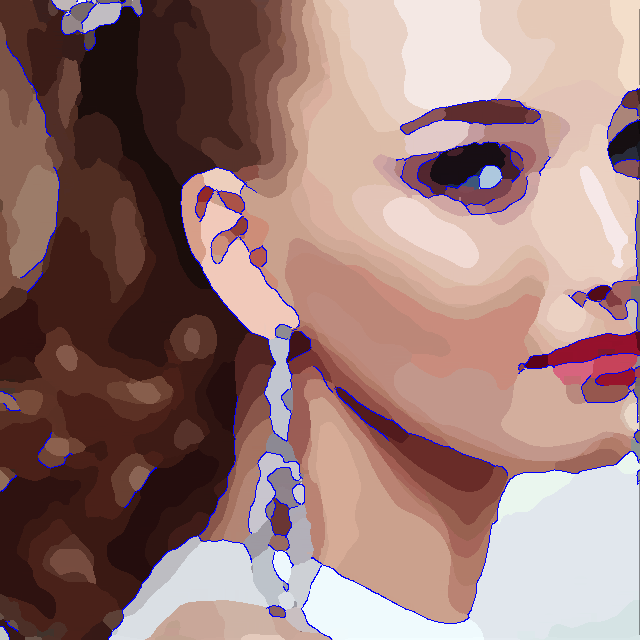
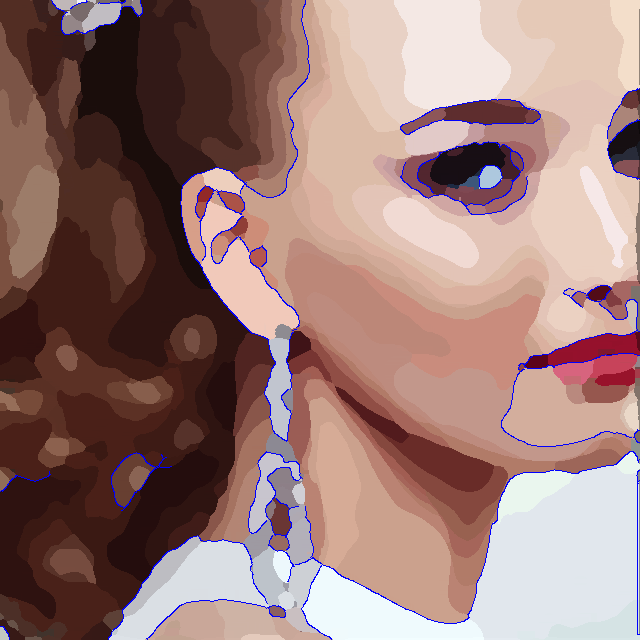
testin

Changed region(s): [[0.9688, 0.5938, 1.0, 0.625], [0.5312, 0.625, 0.5625, 0.6562]]

diff --git a/a.cpp b/a.cpp
@@ -1,0 +1,91 @@
+#include "opencv2/imgproc/imgproc.hpp"
+#include "opencv2/highgui/highgui.hpp"
+ 
+#include <iostream>
+ 
+using namespace cv;
+using namespace std;
+ 
+Vec3b RandomColor(int value);  //生成随机颜色函数
+ 
+int main( int argc, char* argv[] )
+{
+	Mat image=imread(argv[1]);    //载入RGB彩色图像
+	imshow("Source Image",image);
+ 
+	//灰度化，滤波，Canny边缘检测
+	Mat imageGray;
+	cvtColor(image,imageGray,CV_RGB2GRAY);//灰度转换
+	//GaussianBlur(imageGray,imageGray,Size(3,3),1);   //高斯滤波
+	GaussianBlur(imageGray,imageGray,Size(5,5),1);   //高斯滤波
+	//GaussianBlur(imageGray,imageGray,Size(5,5),2);   //高斯滤波
+	//GaussianBlur(imageGray,imageGray,Size(7,7),5);   //高斯滤波
+	imshow("Gray Image",imageGray); 
+	Canny(imageGray,imageGray,0,255);  
+	imshow("Canny Image",imageGray);
+ 
+	//查找轮廓
+	vector<vector<Point> > contours;  
+	vector<Vec4i> hierarchy;  
+	findContours(imageGray,contours,hierarchy,RETR_TREE,CHAIN_APPROX_SIMPLE,Point());  
+	Mat imageContours=Mat::zeros(image.size(),CV_8UC1);  //轮廓	
+	Mat marks(image.size(),CV_32S);   //Opencv分水岭第二个矩阵参数
+	marks=Scalar::all(0);
+	int index = 0;
+	int compCount = 0;
+	for( ; index >= 0; index = hierarchy[index][0], compCount++ ) 
+	{
+		//对marks进行标记，对不同区域的轮廓进行编号，相当于设置注水点，有多少轮廓，就有多少注水点
+		drawContours(marks, contours, index, Scalar::all(compCount+1), 1, 8, hierarchy);
+		drawContours(imageContours,contours,index,Scalar(255),1,8,hierarchy);  
+	}
+ 
+	//我们来看一下传入的矩阵marks里是什么东西
+	Mat marksShows;
+	convertScaleAbs(marks,marksShows);
+	imshow("marksShow",marksShows);
+	imshow("contours",imageContours);
+	watershed(image,marks);
+ 
+	//我们再来看一下分水岭算法之后的矩阵marks里是什么东西
+	Mat afterWatershed;
+	convertScaleAbs(marks,afterWatershed);
+	imshow("After Watershed",afterWatershed);
+ 
+	//对每一个区域进行颜色填充
+	Mat PerspectiveImage=Mat::zeros(image.size(),CV_8UC3);
+	for(int i=0;i<marks.rows;i++)
+	{
+		for(int j=0;j<marks.cols;j++)
+		{
+			int index=marks.at<int>(i,j);
+			if(marks.at<int>(i,j)==-1)
+			{
+				PerspectiveImage.at<Vec3b>(i,j)=Vec3b(255,255,255);
+			}			 
+			else
+			{
+				PerspectiveImage.at<Vec3b>(i,j) =RandomColor(index);
+			}
+		}
+	}
+	imshow("After ColorFill",PerspectiveImage);
+ 
+	//分割并填充颜色的结果跟原始图像融合
+	Mat wshed;
+	addWeighted(image,0.4,PerspectiveImage,0.6,0,wshed);
+	imshow("AddWeighted Image",wshed);
+ 
+	waitKey();
+}
+ 
+Vec3b RandomColor(int value)  
+{
+	value=value%255;  //生成0~255的随机数
+	RNG rng;
+	int aa=rng.uniform(0,value);
+	int bb=rng.uniform(0,value);
+	int cc=rng.uniform(0,value);
+	return Vec3b(aa,bb,cc);
+}
+

diff --git a/seg.py b/seg.py
@@ -19,24 +19,47 @@ cv2.imwrite('gray.png', gray)
 blur = cv2.GaussianBlur(gray, (5,5), 2)
 cv2.imwrite('blur.png', blur)
 
-#canny = cv2.Canny(blur, 0, 256)
-canny = cv2.Canny(blur, 80, 150)
+canny = cv2.Canny(blur, 0, 256)
+#canny = cv2.Canny(blur, 80, 150)
 cv2.imwrite('canny.png', canny)
 
 ret, contours, hierarchy = cv2.findContours(canny, cv2.RETR_TREE, cv2.CHAIN_APPROX_SIMPLE)
-imageContours = np.zeros((img.shape[0], img.shape[0], 1), dtype = "uint8")
+
+imageContours = np.zeros(img.shape, np.uint8)
+marks = np.zeros(img.shape, np.uint8)
 
 for i in range(0,len(contours)):
+    cv2.drawContours(marks,contours,i,(i,0,0),1,8,hierarchy)
     cv2.drawContours(imageContours,contours,i,(255,0,0),1,8,hierarchy)
 
 cv2.imwrite('tmp.png', imageContours)
+cv2.imwrite('tmp1.png', marks)
 
-marks = cv2.watershed(img, imageContours)
-img[marks == -1] = [0,0,255]
-cv2.imwrite('maker.png', marks)
+#marks = cv2.watershed(img, marks)
+#img[marks == -1] = [0,0,255]
+#cv2.imwrite('maker.png', marks)
 
 dst = np.copy(img)
-cv2.drawContours(dst, contours, -1, (255,0,0), 1)
+
+w = img.shape[0]
+h = img.shape[1]
+c_max = []
+for i in range(len(contours)):
+    cnt = contours[i]
+    area = cv2.contourArea(cnt)
+
+    # 处理掉小的轮廓区域，这个区域的大小自己定义。
+    if(area < (h/10*w/10)):
+        c_min = []
+        c_min.append(cnt)
+        # thickness不为-1时，表示画轮廓线，thickness的值表示线的宽度。
+        cv2.drawContours(dst, c_min, -1, (255,0,0), thickness=1)
+        continue
+    #
+    c_max.append(cnt)
+
+cv2.drawContours(dst, c_max, -1, (255,0,0), 1)
+
 cv2.imwrite('dst.png', dst)
 
 ##thresh = np.ones_like(gray)
